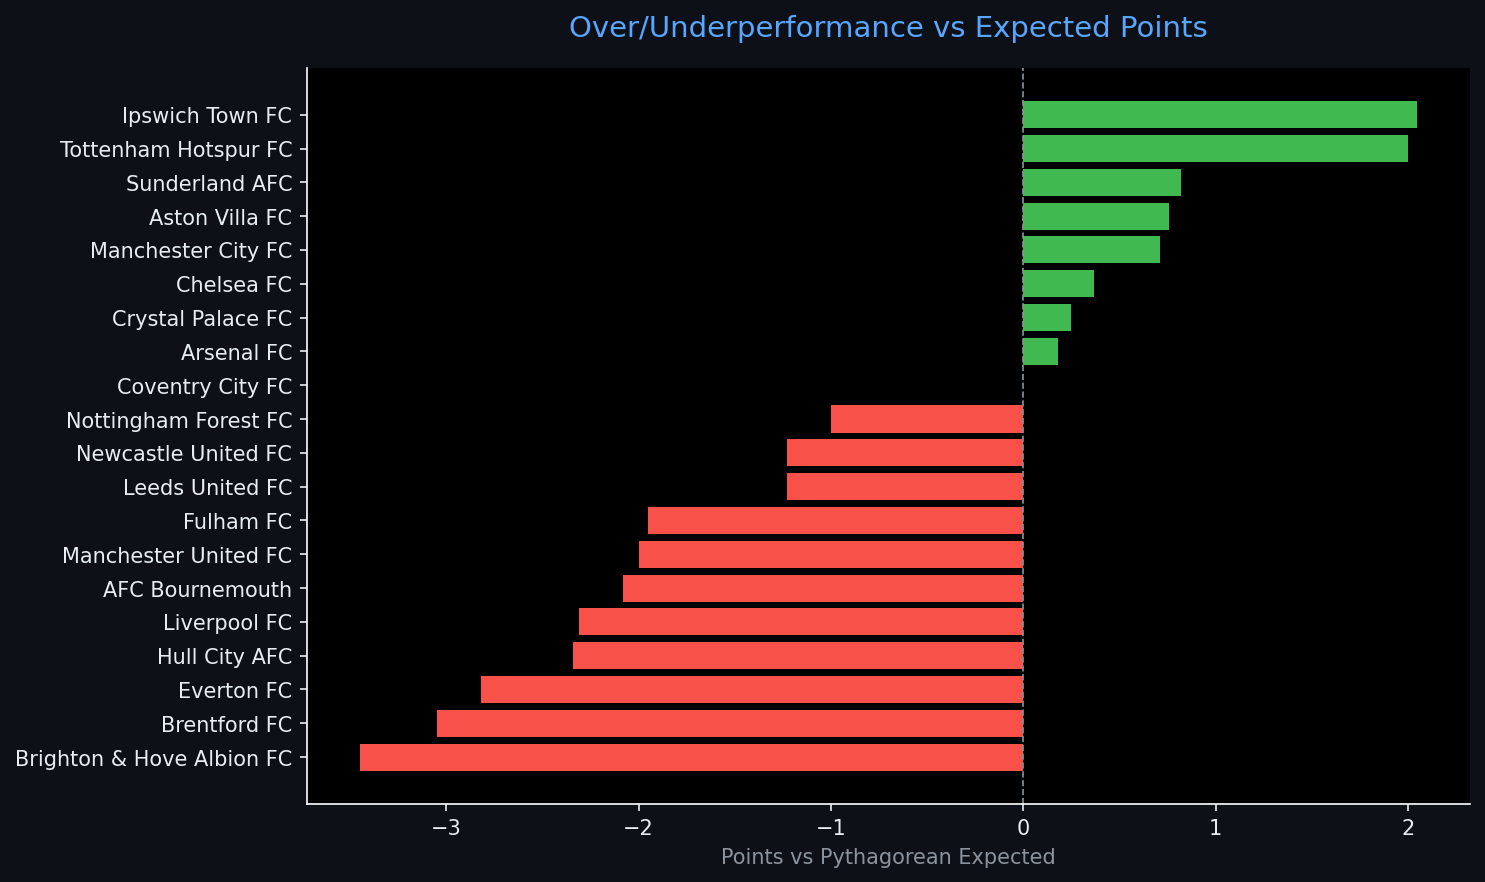
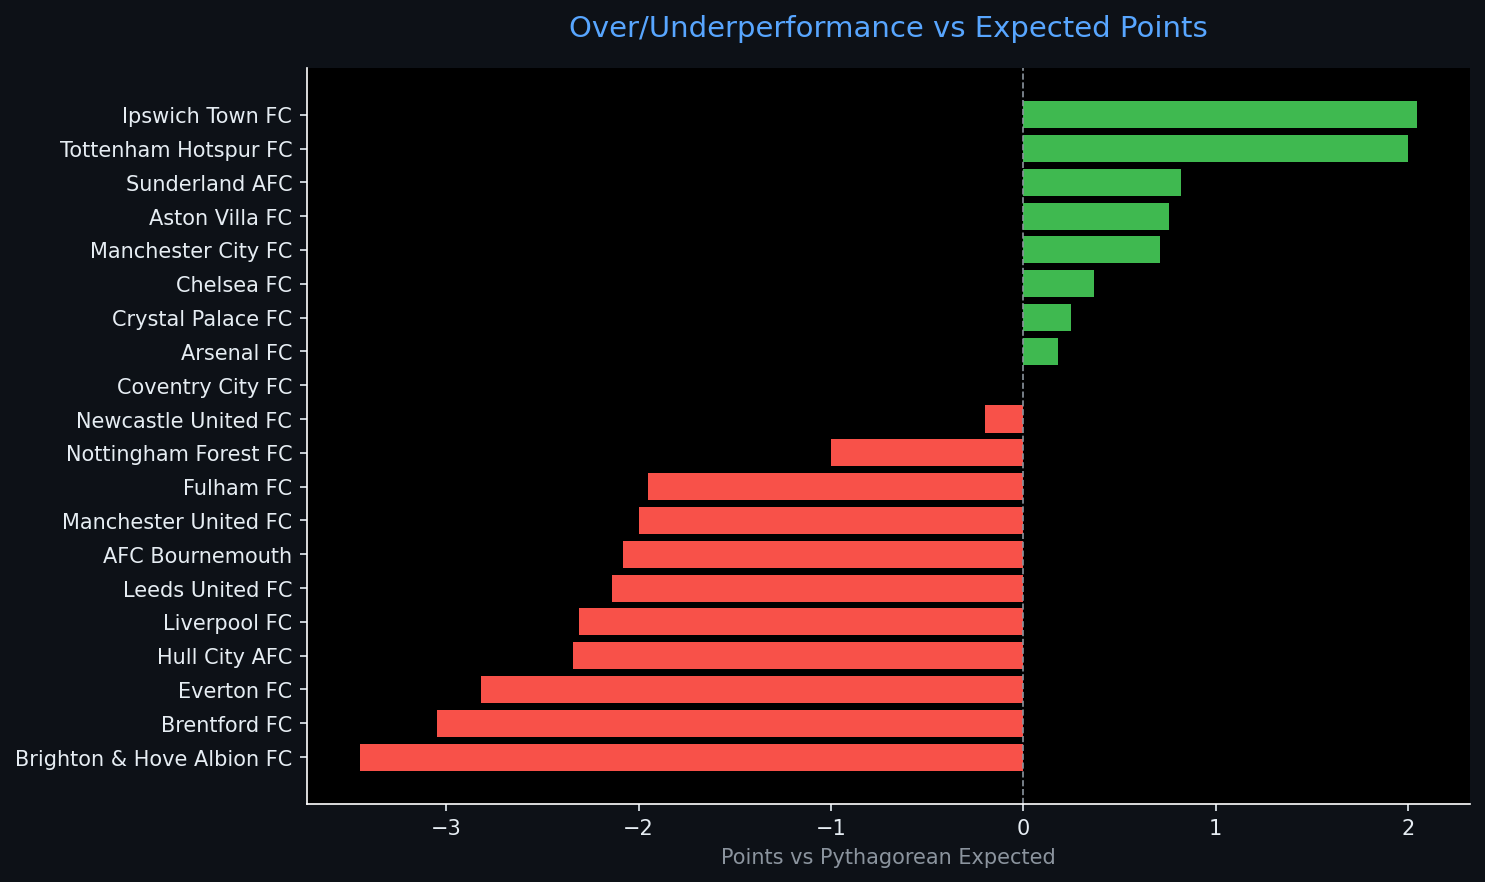
Automated ETL data update: 2026-09-14 21:16

diff --git a/reports/pipeline_report.html b/reports/pipeline_report.html
@@ -4,7 +4,7 @@
 <head>
     <meta charset="UTF-8">
     <meta name="viewport" content="width=device-width, initial-scale=1.0">
-    <title>Sports Data Pipeline Report — 2026-09-14 16:05</title>
+    <title>Sports Data Pipeline Report — 2026-09-14 21:16</title>
     <style>
         body { font-family: 'Segoe UI', sans-serif; background: #0d1117; color: #e6edf3; margin: 0; padding: 2rem; }
         h1   { color: #58a6ff; border-bottom: 1px solid #30363d; padding-bottom: 0.5rem; }
@@ -20,7 +20,7 @@
 </head>
 <body>
     <h1>⚽ Sports Data Pipeline — Automated Report</h1>
-    <p class="meta">Generated: 2026-09-14 16:05 UTC &nbsp;|&nbsp; Sport: <strong>football</strong> &nbsp;|&nbsp; Rows: <strong>20</strong></p>
+    <p class="meta">Generated: 2026-09-14 21:16 UTC &nbsp;|&nbsp; Sport: <strong>football</strong> &nbsp;|&nbsp; Rows: <strong>20</strong></p>
     <span class="badge">Pipeline v1.0.0</span>
     <h2>📊 Data Table</h2>
     <table class="dataframe data-table">
@@ -74,6 +74,21 @@
     </tr>
     <tr>
       <td>3</td>
+      <td>Leeds United FC</td>
+      <td>4</td>
+      <td>8</td>
+      <td>2</td>
+      <td>2</td>
+      <td>0</td>
+      <td>7</td>
+      <td>3</td>
+      <td>0.500</td>
+      <td>2.000</td>
+      <td>0.845</td>
+      <td>NaN</td>
+    </tr>
+    <tr>
+      <td>4</td>
       <td>Hull City AFC</td>
       <td>4</td>
       <td>8</td>
@@ -88,7 +103,7 @@
       <td>NaN</td>
     </tr>
     <tr>
-      <td>4</td>
+      <td>5</td>
       <td>Brighton &amp; Hove Albion FC</td>
       <td>4</td>
       <td>7</td>
@@ -103,7 +118,7 @@
       <td>NaN</td>
     </tr>
     <tr>
-      <td>5</td>
+      <td>6</td>
       <td>Chelsea FC</td>
       <td>4</td>
       <td>7</td>
@@ -118,7 +133,7 @@
       <td>NaN</td>
     </tr>
     <tr>
-      <td>6</td>
+      <td>7</td>
       <td>Brentford FC</td>
       <td>4</td>
       <td>6</td>
@@ -133,7 +148,7 @@
       <td>NaN</td>
     </tr>
     <tr>
-      <td>7</td>
+      <td>8</td>
       <td>Liverpool FC</td>
       <td>4</td>
       <td>6</td>
@@ -148,7 +163,7 @@
       <td>NaN</td>
     </tr>
     <tr>
-      <td>8</td>
+      <td>9</td>
       <td>Everton FC</td>
       <td>4</td>
       <td>6</td>
@@ -163,7 +178,7 @@
       <td>NaN</td>
     </tr>
     <tr>
-      <td>9</td>
+      <td>10</td>
       <td>Ipswich Town FC</td>
       <td>4</td>
       <td>6</td>
@@ -178,37 +193,7 @@
       <td>NaN</td>
     </tr>
     <tr>
-      <td>10</td>
-      <td>Newcastle United FC</td>
-      <td>3</td>
-      <td>5</td>
-      <td>1</td>
-      <td>2</td>
-      <td>0</td>
-      <td>6</td>
-      <td>4</td>
-      <td>0.333</td>
-      <td>1.667</td>
-      <td>0.692</td>
-      <td>NaN</td>
-    </tr>
-    <tr>
       <td>11</td>
-      <td>Leeds United FC</td>
-      <td>3</td>
-      <td>5</td>
-      <td>1</td>
-      <td>2</td>
-      <td>0</td>
-      <td>3</td>
-      <td>2</td>
-      <td>0.333</td>
-      <td>1.667</td>
-      <td>0.692</td>
-      <td>NaN</td>
-    </tr>
-    <tr>
-      <td>12</td>
       <td>Nottingham Forest FC</td>
       <td>4</td>
       <td>5</td>
@@ -220,6 +205,21 @@
       <td>0.250</td>
       <td>1.250</td>
       <td>0.500</td>
+      <td>NaN</td>
+    </tr>
+    <tr>
+      <td>12</td>
+      <td>Newcastle United FC</td>
+      <td>4</td>
+      <td>5</td>
+      <td>1</td>
+      <td>2</td>
+      <td>1</td>
+      <td>7</td>
+      <td>8</td>
+      <td>0.250</td>
+      <td>1.250</td>
+      <td>0.434</td>
       <td>NaN</td>
     </tr>
     <tr>
@@ -360,9 +360,9 @@
         
         <tr><td>Total Columns</td><td>29</td></tr>
         
-        <tr><td>Null Values</td><td>93</td></tr>
+        <tr><td>Null Values</td><td>90</td></tr>
         
-        <tr><td>Run Timestamp (UTC)</td><td>2026-09-14T16:05:46.932437</td></tr>
+        <tr><td>Run Timestamp (UTC)</td><td>2026-09-14T21:16:00.461082</td></tr>
         
         <tr><td>ML Features Ready</td><td>False</td></tr>
         
